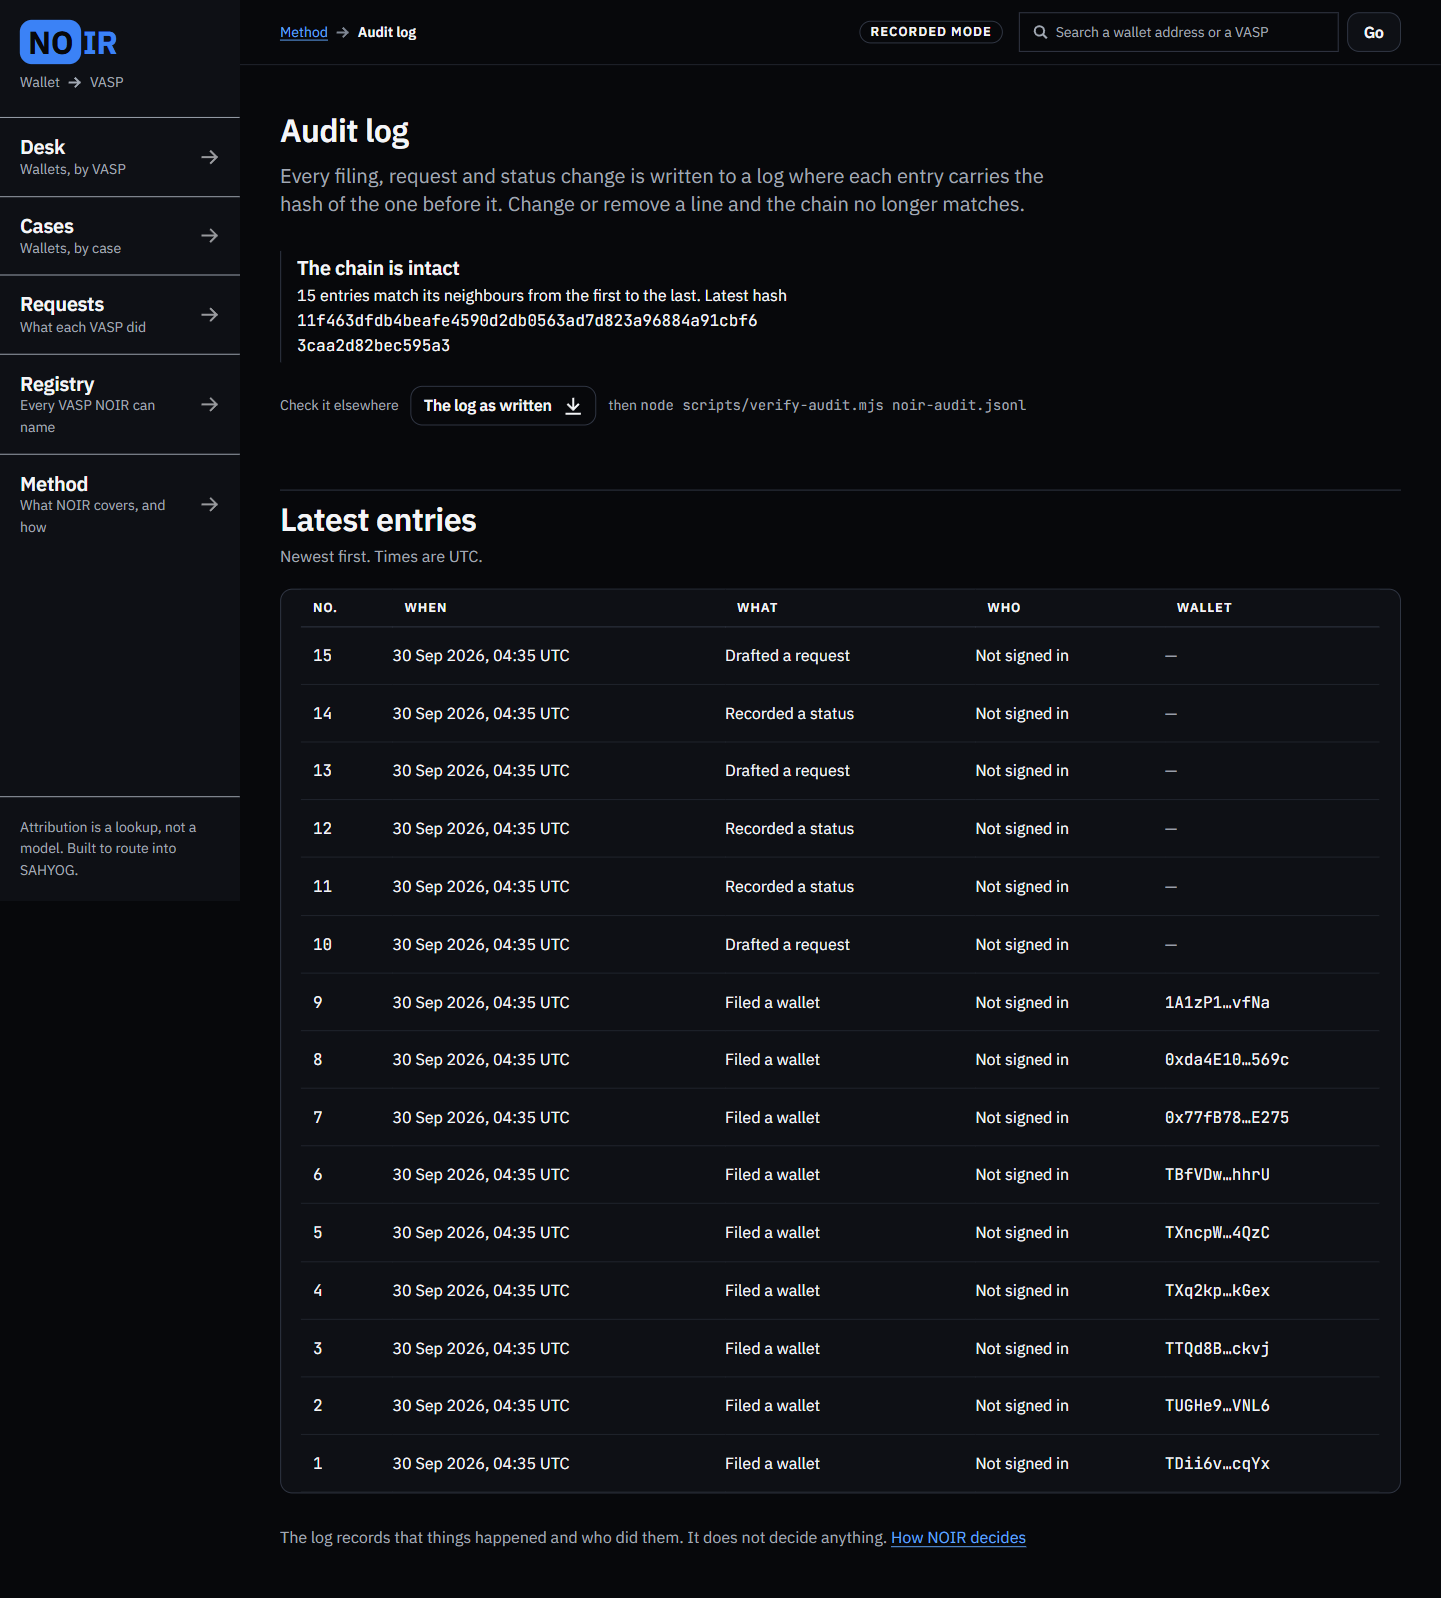
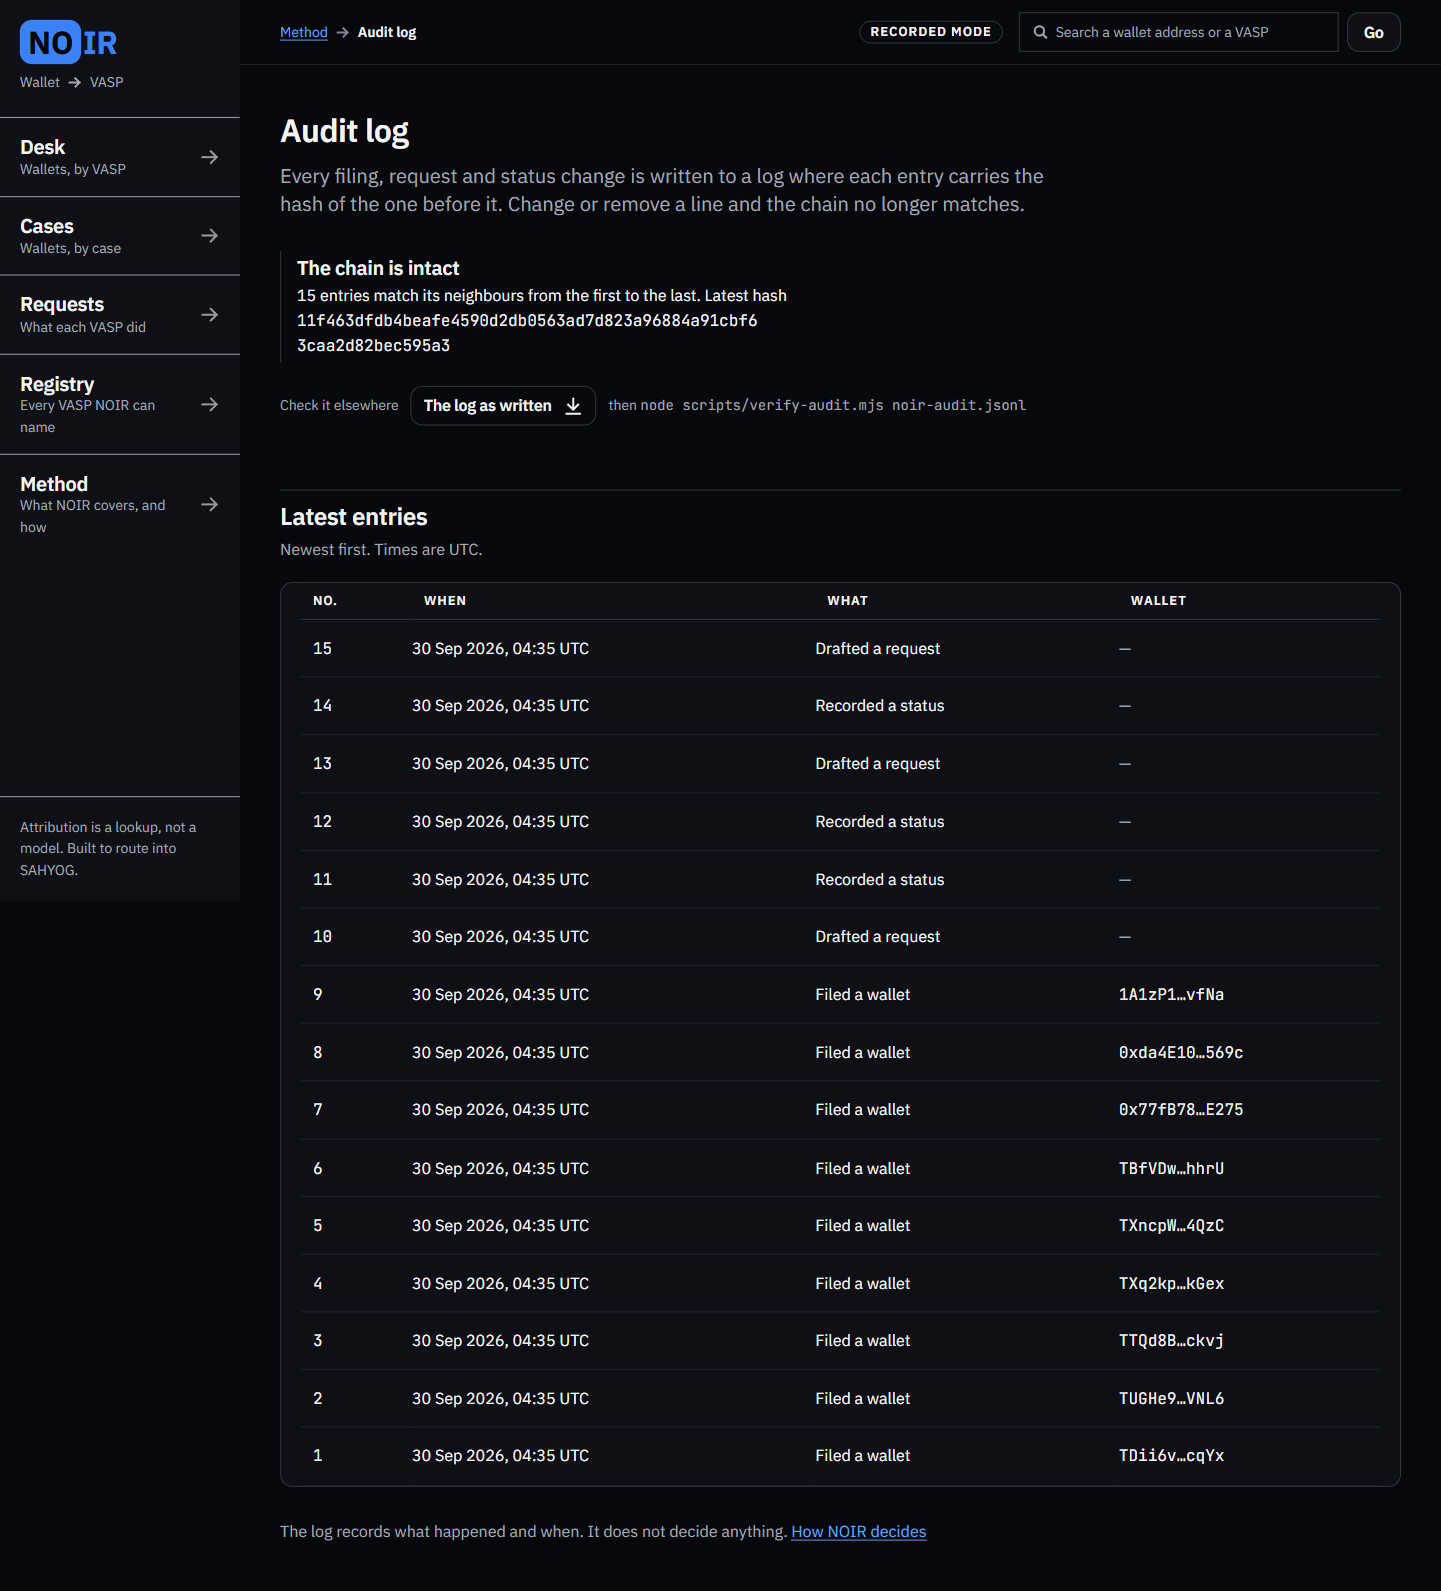
Screens of every route at desktop and phone width, an empty desk, and key frames for the demo video

diff --git a/docs/screens/README.md b/docs/screens/README.md
@@ -1,18 +1,23 @@
 # Screens
 
-Captured from the production build (`next build && next start`, `DEMO_MODE=true`) on 30 Sep 2026, at 1440px wide
-(phones at 390px), with reduced motion so the split-flap names and route pulses are at rest. The desk holds the
-recorded wallets with a staged register: a request to MEXC answered with a freeze, one to CoinDCX sent, one to
-Bitget drafted.
+Captured from the production build (`next build && next start`, `DEMO_MODE=true`) on 30 Sep 2026, at 1440px wide and,
+for the `-phone` files, at 390px, with reduced motion so the split-flap names and the hall's lane pulses are at rest.
+The desk holds recorded wallets with a staged register: a request to MEXC answered with a freeze, one to CoinDCX sent,
+one to Bitget drafted. `desk-empty` is a desk with nothing filed, where recorded mode offers the recorded cases.
 
-| File | Screen |
+| Files | Screen |
 | --- | --- |
 | `landing.png`, `landing-phone.png` | `/` |
 | `desk.png`, `desk-phone.png` | `/desk` |
-| `vasp.png` | `/vasp/MEXC` |
-| `letter.png` | `/vasp/MEXC/request` |
-| `wallet.png` | `/wallet/[address]` |
-| `requests.png` | `/requests` |
-| `cases.png` | `/cases` |
-| `registry.png` | `/registry` |
-| `method.png` | `/method` |
+| `desk-empty.png`, `desk-empty-phone.png` | `/desk` with nothing filed |
+| `vasp.png`, `vasp-phone.png` | `/vasp/MEXC` |
+| `letter.png`, `letter-phone.png` | `/vasp/MEXC/request` |
+| `wallet.png`, `wallet-phone.png` | `/wallet/[address]` |
+| `requests.png`, `requests-phone.png` | `/requests` |
+| `cases.png`, `cases-phone.png` | `/cases` |
+| `registry.png`, `registry-phone.png` | `/registry` |
+| `method.png`, `method-phone.png` | `/method` |
+| `audit.png`, `audit-phone.png` | `/audit` |
+
+The "Moved since it was read" sections show what the chains answered at the moment of capture; they are live reads,
+not recordings.
